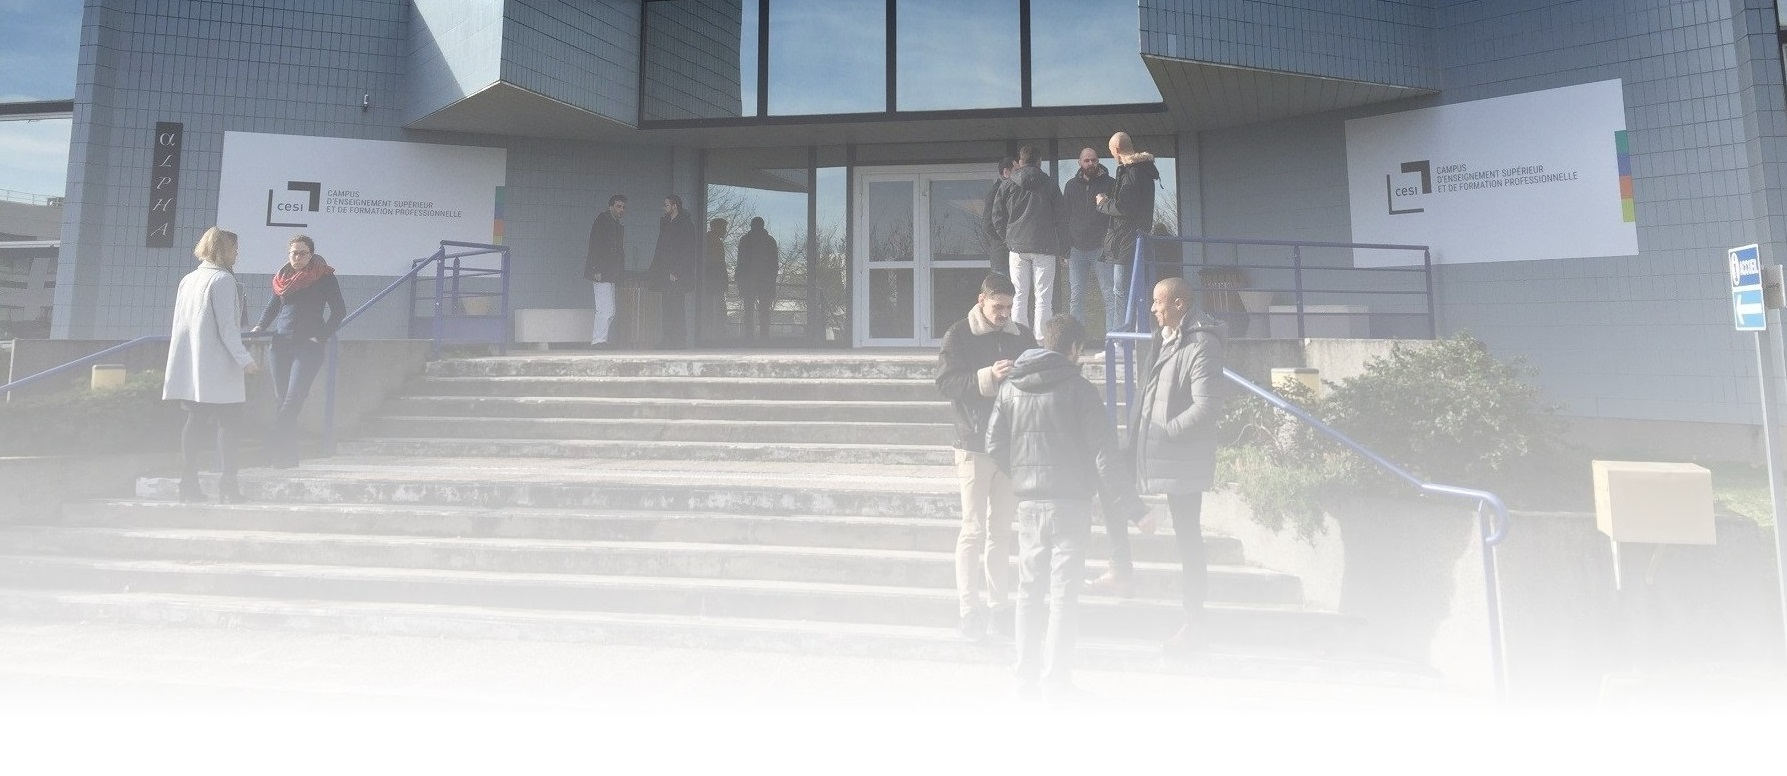
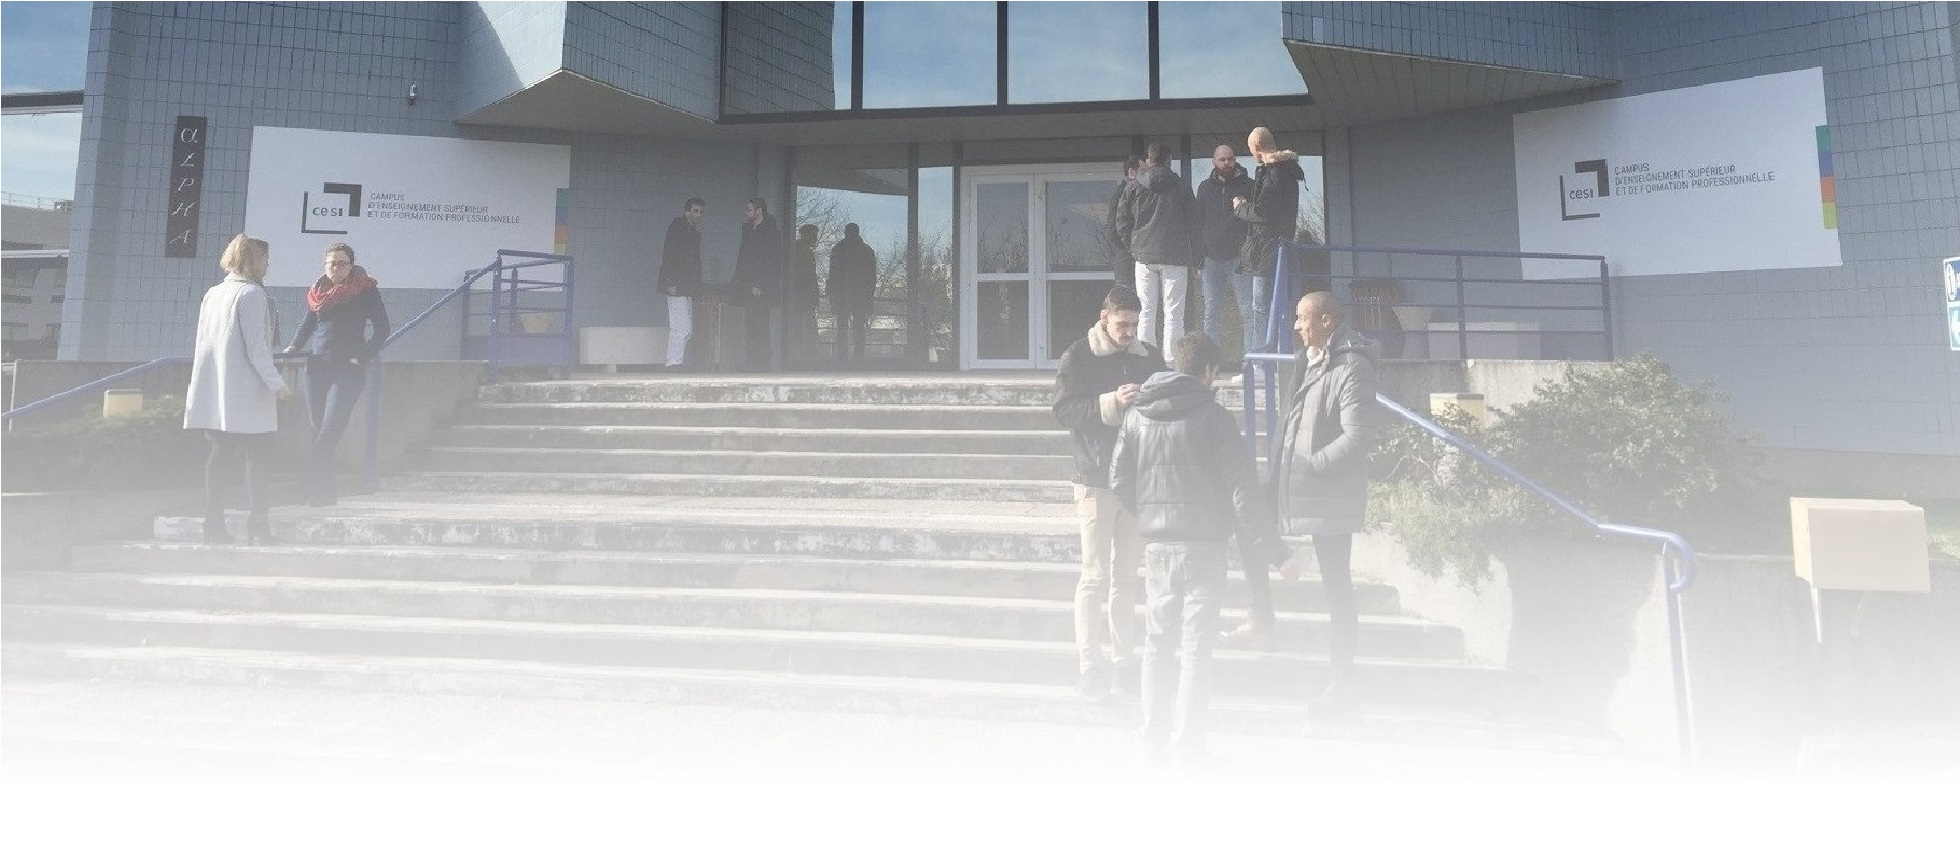
page d'accueil validée par W3C et responsive

diff --git a/public/css/accueil.css b/public/css/accueil.css
@@ -1,5 +1,5 @@
 .aaa{
-	padding: 0 0 0 0;
+	padding: 25% 0 0 0;
 }
 
 .title {
@@ -16,15 +16,6 @@
 
 }
 
-#div1 {
-	/*margin-left: 3%;
-	margin-right: 3%; */
-}
-
-#div2 {
-	/*margin-left: 3%;
-	margin-right: 3%;*/
-}
 
 .accueiltext{
 	text-align: justify;
@@ -37,21 +28,15 @@
 	margin: 0 0 3% 3%;
 }
 
-#row1{
-	margin: 30% 0 0 0;
-
-}
-
 #row2{
 	margin-top: 0;
 }
 
 #tout{
 	background-image: url(../images/accueilfade.png);
-
 	background-repeat:  no-repeat;
-	background-size: auto;
-
+	background-size: cover;
+	margin-top: -3%;
 }
 .responsiveImage{
     width: 80%;

diff --git a/public/css/navbar.css b/public/css/navbar.css
@@ -5,7 +5,6 @@
     font-family: 'Quicksand', sans-serif;
 
 
-
 }
 
 .navbar-custom {
@@ -59,4 +58,3 @@ nav .navbar-nav li a{
 .col-7{
     flex:0;
 }
-

diff --git a/resources/views/general/accueil.blade.php b/resources/views/general/accueil.blade.php
@@ -6,28 +6,12 @@
 @section('ajoutHead')
 <meta name="csrf-token" content="{{ csrf_token() }}">
 @endsection
-<div id="tout">
-@section('content')
-<!--div class="title mb-3">BDE CESI</div>
 
-<div class="row">
-	<div class="carousel slide col-12 justify-content-center carousel-fade p-0" data-ride="carousel">
-		<div class="carousel-inner">
-			<div class="carousel-item active">
-				<img class="d-block w-100" src="/projet_web/public/images/Carousel/CESI_Campus_JPO.png" alt="First slide">
-			</div>
-			<div class="carousel-item">
-				<img class="d-block w-100" src="/projet_web/public/images/Carousel/battledev_2018.jpg" alt="Second slide">
-			</div>
-			<div class="carousel-item">
-				<img class="d-block w-100" src="/projet_web/public/images/Carousel/smash_tournoi.jpg" alt="Third slide">
-			</div>
-		</div>
-	</div>
-</div-->
+@section('content')
+
+<div id="tout">
 
 <div class="container-fluid aaa">
-	<div class="row-fluid" id="row1">&nbsp;</div>
 	<div class="row" id="row2">
 		<div class="col accueildiv" id="div1">
 			<h2> Bureau des élèves</h2>
@@ -56,34 +40,5 @@
 </div>
 
 
-
-
-<!--div class="row justify-content-center mt-3 mb-3">
-	<div class="col-10 card border border-primary ">
-		<h5 class="card-header ">Featured</h5>
-		<div class="card-body">
-			<div class="row justify-content-center">
-				<div class="col-sm-6  col-md-4 col-lg-3 m-2 card" style="width: 18rem;">
-					<img class="card-img-top" src="/projet_web/public/images/activite/activite1.png" alt="Card image cap">
-					<div class="card-body">
-						<p class="card-text">Some quick example text to build on the card title and make up the bulk of the card's content.</p>
-					</div>
-				</div>
-				<div class="col-sm-6  col-md-4 col-lg-3 m-2 card" style="width: 18rem;">
-					<img class="card-img-top" src="/projet_web/public/images/activite/activite1.png" alt="Card image cap">
-					<div class="card-body">
-						<p class="card-text">Some quick example text to build on the card title and make up the bulk of the card's content.</p>
-					</div>
-				</div>
-				<div class="col-sm-6  col-md-4 col-lg-3 m-2 card" style="width: 18rem;">
-					<img class="card-img-top" src="/projet_web/public/images/activite/activite1.png" alt="Card image cap">
-					<div class="card-body">
-						<p class="card-text">Some quick example text to build on the card title and make up the bulk of the card's content.</p>
-					</div>
-				</div>
-			</div>
-		</div>
-	</div>
-</div-->
 </div>
 @endsection
